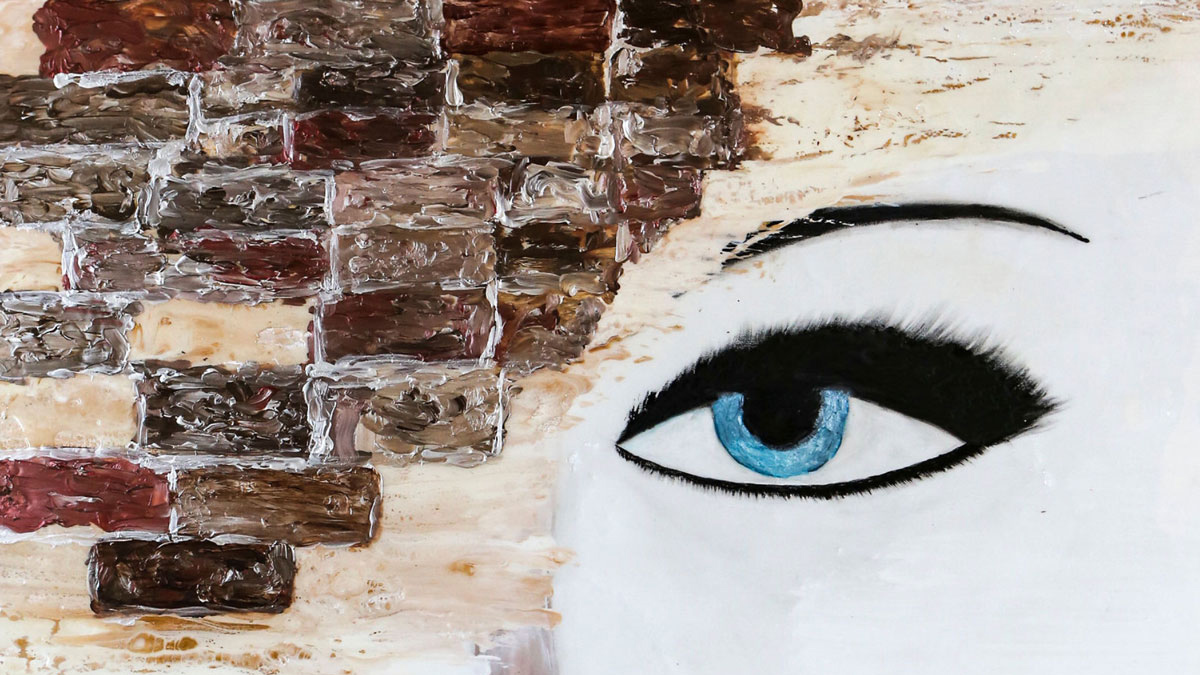
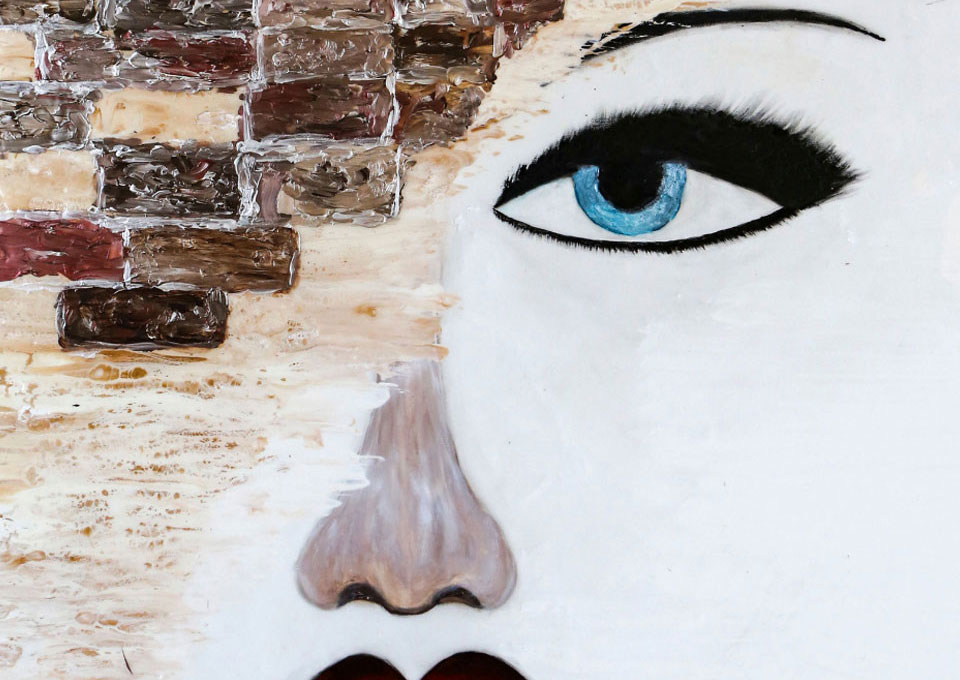
hero and announcemnt tweak

diff --git a/src/components/Gallery/GalleryGrid.js b/src/components/Gallery/GalleryGrid.js
@@ -1,0 +1,82 @@
+import * as React from "react"
+import PropTypes from "prop-types"
+import { graphql, useStaticQuery } from "gatsby"
+import { Grid, GridItem } from "@chakra-ui/react"
+import { GatsbyImage, getImage } from "gatsby-plugin-image"
+import "./gallery.css"
+
+const Gallery = ({ isPage }) => {
+  const { galleryImages, someGalleryImages } = useStaticQuery(graphql`
+    query {
+      galleryImages: allFile(
+        filter: { relativeDirectory: { eq: "gallery" } }
+        sort: { order: ASC, fields: name }
+      ) {
+        edges {
+          node {
+            childImageSharp {
+              id
+              gatsbyImageData(
+                formats: [AUTO, WEBP]
+                layout: CONSTRAINED
+                quality: 60
+                placeholder: BLURRED
+                width: 1920
+              )
+            }
+          }
+        }
+      }
+      someGalleryImages: allFile(
+        filter: { relativeDirectory: { eq: "gallery" } }
+        limit: 3
+        sort: { order: ASC, fields: name }
+      ) {
+        edges {
+          node {
+            childImageSharp {
+              id
+              gatsbyImageData(
+                formats: [AUTO, WEBP]
+                layout: CONSTRAINED
+                quality: 60
+                placeholder: BLURRED
+                width: 1920
+              )
+            }
+          }
+        }
+      }
+    }
+  `)
+
+  return (
+    <Grid templateColumns={["repeat(2, 1fr)"]} className="gallery">
+      {isPage
+        ? galleryImages.edges.map(({ node }) => (
+            <GridItem key={node.childImageSharp.id}>
+              <GatsbyImage
+                image={getImage(node.childImageSharp)}
+                alt={`Gallery Image`}
+                style={{ minWidth: `100%` }}
+              />
+            </GridItem>
+          ))
+        : someGalleryImages.edges.map(({ node }) => (
+            <GridItem key={node.childImageSharp.id}>
+              <GatsbyImage
+                image={getImage(node.childImageSharp)}
+                alt={`Gallery Image`}
+                style={{ minWidth: `100%` }}
+              />
+            </GridItem>
+          ))}
+    </Grid>
+  )
+}
+
+Gallery.propTypes = {
+  isPage: PropTypes.bool,
+}
+
+export default Gallery

diff --git a/src/components/AltHero/index.js b/src/components/AltHero/index.js
@@ -38,7 +38,7 @@ const AltHero = ({
         artHero: file(relativePath: { eq: "page-heros/art-page-hero.jpg" }) {
           childImageSharp {
             gatsbyImageData(
-              width: 800
+              width: 960
               quality: 60
               layout: CONSTRAINED
               placeholder: BLURRED
@@ -51,7 +51,7 @@ const AltHero = ({
         ) {
           childImageSharp {
             gatsbyImageData(
-              width: 800
+              width: 960
               quality: 60
               layout: CONSTRAINED
               placeholder: BLURRED
@@ -64,7 +64,7 @@ const AltHero = ({
         ) {
           childImageSharp {
             gatsbyImageData(
-              width: 1054
+              width: 960
               quality: 60
               layout: CONSTRAINED
               placeholder: BLURRED
@@ -75,7 +75,7 @@ const AltHero = ({
         allHero: file(relativePath: { eq: "page-heros/shop-page-hero.jpg" }) {
           childImageSharp {
             gatsbyImageData(
-              width: 1000
+              width: 960
               quality: 60
               layout: CONSTRAINED
               placeholder: BLURRED
@@ -97,7 +97,7 @@ const AltHero = ({
         charcuterie: file(relativePath: { eq: "charcuterie.jpg" }) {
           childImageSharp {
             gatsbyImageData(
-              width: 1000
+              width: 960
               quality: 60
               layout: CONSTRAINED
               placeholder: BLURRED

diff --git a/src/components/Footer/Fragments/SocialMediaLinks.js b/src/components/Footer/Fragments/SocialMediaLinks.js
@@ -1,6 +1,6 @@
 import { ButtonGroup, IconButton } from "@chakra-ui/react"
 import * as React from "react"
-import { FaFacebook, FaInstagram } from "react-icons/fa"
+import { FaFacebook, FaInstagram, FaYoutube } from "react-icons/fa"
 import ThemeToggle from "../../ThemeToggle/index"
 
 const SocialMediaLinks = props => (
@@ -21,6 +21,15 @@ const SocialMediaLinks = props => (
       aria-label="Instagram"
       icon={<FaInstagram fontSize="20px" />}
     />
+    <IconButton
+      as="a"
+      target="_blank"
+      rel="noopener noreferrer"
+      href="https://www.youtube.com/channel/UC2ebHj7h8u6XAzZRhXbx02w"
+      aria-label="Instagram"
+      icon={<FaYoutube fontSize="20px" />}
+    />
+
     <ThemeToggle />
 
     {/* <IconButton

diff --git a/src/components/Header/Fragments/Announcement.js b/src/components/Header/Fragments/Announcement.js
@@ -32,7 +32,11 @@ export const Announcement = () => (
         <Icon as={PhoneIcon} fontSize="2xl" h="10" />
         <Text fontWeight="medium" marginEnd="2">
           Call us at <a href="tel:210.474.0440">210-474-0440</a> to book a
-          private individual or group class. Open M-F 11am-6pm • Sat 11am-5pm
+          private individual or group class. Open T-F 11am-6pm • Sat 11am-5pm
+        </Text>
+        <Text fontWeight="medium" marginEnd="2">
+          Closed Monday's in April & May for the showcasing of my original art
+          in the Robare Custom Home at the 2021 Parade of Homes.
         </Text>
       </HStack>
       {/* <Link

diff --git a/src/pages/policy.js b/src/pages/policy.js
@@ -1,18 +1,13 @@
 import React from "react"
 import Layout from "../components/Layout/Layout"
-import {
-  Container,
-  Box,
-  Text,
-  useColorModeValue,
-  Grid,
-  GridItem,
-} from "@chakra-ui/react"
+import { Container, Box, Text, useColorModeValue } from "@chakra-ui/react"
+import SEO from "../components/SEO"
 
 const PolicyPage = ({ pageContext }) => {
   const gray = useColorModeValue(`bgGray`)
   return (
     <Layout>
+      <SEO title={pageContext.policy?.title} />
       <Box backgroundColor={gray} py={6}>
         <Container my={[16, 16, 16, 16]}>
           <Text

diff --git a/src/pages/gallery.js b/src/pages/gallery.js
@@ -1,6 +1,6 @@
 import React from "react"
-import Gallery from "../components/Gallery/Gallery"
 import Layout from "../components/Layout/Layout"
+import Gallery from "../components/Gallery/Gallery"
 import AltHero from "../components/AltHero/index"
 import SEO from "../components/SEO"
 

diff --git a/src/components/CartButton/index.js b/src/components/CartButton/index.js
@@ -17,6 +17,7 @@ const CartButton = ({ quantity, btnRef, onOpen }) => {
           size="lg"
           ref={btnRef}
           onClick={onOpen}
+          p={2}
           className="cart-btn cart-link"
         />
         {""}

diff --git a/src/svg/cart.js b/src/svg/cart.js
@@ -4,7 +4,7 @@ function Cart(props) {
   return (
     <svg
       xmlns="http://www.w3.org/2000/svg"
-      width={26.726}
+      width={27.726}
       height={31.939}
       viewBox="0 0 26.726 31.939"
       {...props}

diff --git a/gatsby-config.js b/gatsby-config.js
@@ -106,6 +106,6 @@ module.exports = {
     "gatsby-transformer-sharp",
     "gatsby-plugin-react-helmet",
     "gatsby-plugin-sitemap",
-    `gatsby-plugin-offline`
+    `gatsby-plugin-offline`,
   ],
 }
